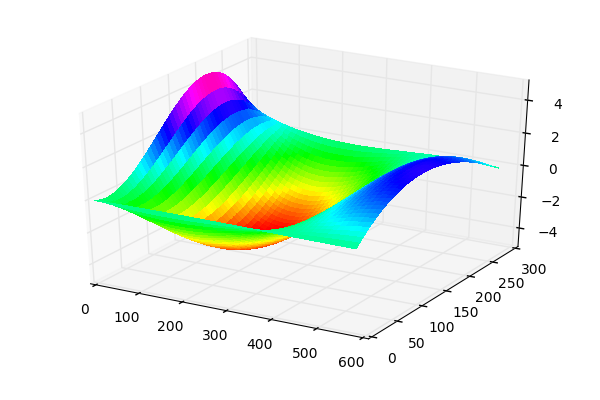
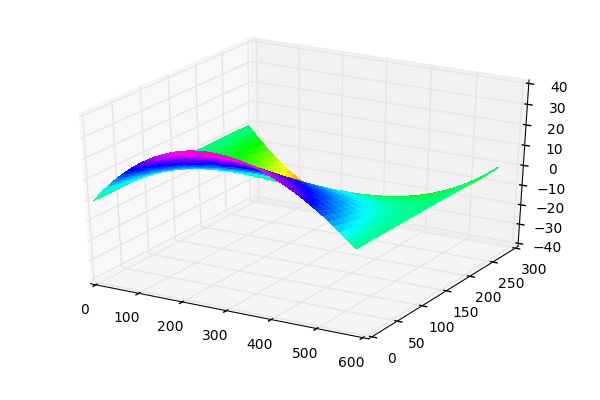
fixed dof bugs and adjusted dof indexing

Changed region(s): [[0.15, 0.18, 0.84, 0.63], [0.87, 0.21, 0.96, 0.39], [0.9, 0.45, 0.96, 0.63]]

diff --git a/modules/Mod1_Impact/code/package/FRF2Shape.py b/modules/Mod1_Impact/code/package/FRF2Shape.py
@@ -48,20 +48,20 @@ def getCMIF(FRF,w,pole=None,outDOF=None,inDOF=None):
 
     # Resample FRF to form subset
     if outDOF is None:
-        no = FRF.shape[0]
-        outs = arange(0,no-1)
+        no = 15
+        outs = arange(0,15)
     else:
-        outs = outDOF-1
+        outs = outDOF
         no = outDOF.shape[0]
 
     if inDOF is None:
-        ni = FRF.shape[1]
-        ins = arange(0,ni-1)
+        ni = 15
+        ins = arange(0,ni)
     else:
-        ins = inDOF-1
+        ins = inDOF
         ni = inDOF.shape[0]
 
-    FRFsub = FRF[outs,:,:][:,ins,:]
+    FRFsub = FRF[outs+5,:,:][:,ins+5,:]
 
     if FRFsub.shape[1]>=FRFsub.shape[0]:
         inswitchout = 1
@@ -126,18 +126,18 @@ def modeInterp(coords,z,bounds,scale, saveloc, savename):
     tck = interpolate.bisplrep(xTot,yTot,zTot)
     zInter = interpolate.bisplev(xInter[0,:],yInter[:,0],tck)
 
-    # plot mesh surface
+        # plot mesh surface
     fig = plt.figure()
     ax = fig.gca(projection='3d')
     rainbow = cm = plt.get_cmap('gist_rainbow')
-    surf = ax.plot_surface(xInter, yInter, zInter*scale, rstride=1,
+    surf = ax.plot_surface(xInter, yInter, zInter.transpose()*scale, rstride=1,
                 cstride=1, cmap=rainbow, linewidth=0, antialiased=False)
 
     plt.tight_layout()
     fig.subplots_adjust(bottom=0.1)
 
     plt.savefig(saveloc + '/' + savename) # bbox_inches='tight')
-    #plt.show()
+#plt.show()
 
     plt.close(fig)
 

diff --git a/modules/Mod1_Impact/code/package/runMod1.py b/modules/Mod1_Impact/code/package/runMod1.py
@@ -15,7 +15,7 @@ DOF_coord = FRF2Shape.importCSV(coord_fname)
 # The boundary coords will be hard coded in future version
 # boundary coordinates
 boundx = array([0,576])
-boundy = array([0,72,144,216,288])
+boundy = array([0,36,72,108,144,180,216,252,288])
 boundx, boundy = meshgrid(boundx,boundy)
 boundx = boundx.flatten()
 boundy = boundy.flatten()
@@ -25,9 +25,9 @@ bcoords = hstack((boundx[...,None],boundy[...,None],zeros(boundx.shape[0])[...,N
 ## Compile input parameters
 # These will come from the user's interaction with the UI
 # input (impact) dof locations
-ins = arange(11,16)
+ins = arange(0,15)
 # output (sensors) dof l ocations
-outs = arange(6,21)
+outs = arange(0,15)
 
 
 ## Compute Shapes from FRF subset
